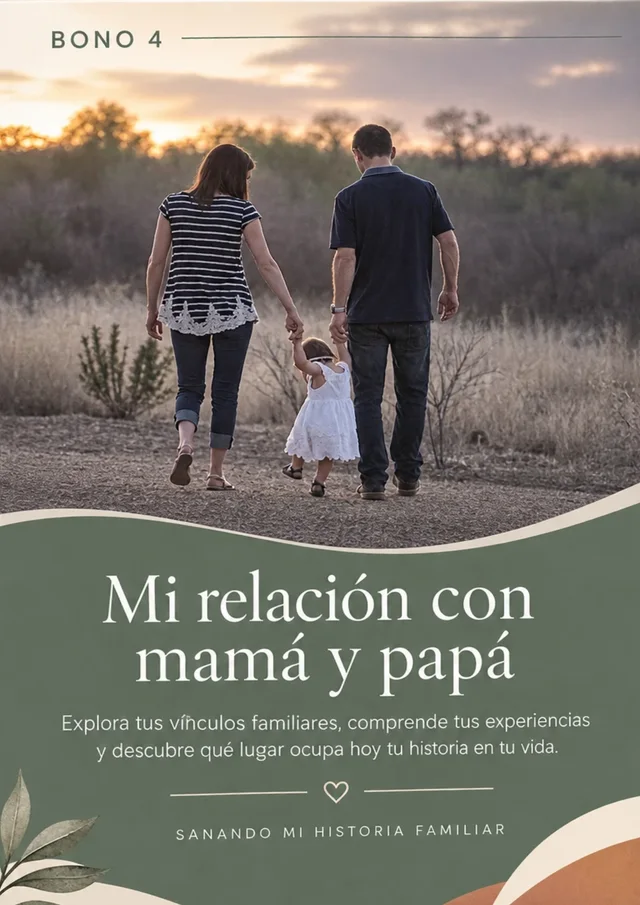
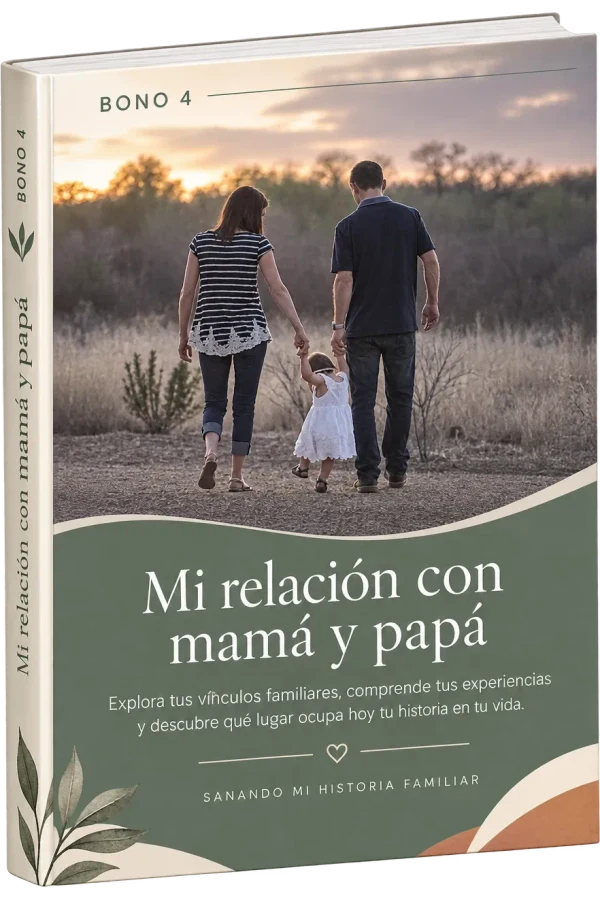
Página de ventas: bonos con mockups de libro 3D

diff --git a/index.html b/index.html
@@ -356,7 +356,7 @@
   /* BONOS EN PDF */
   .bonos-pdf{list-style:none; display:grid; grid-template-columns:1fr 1fr; gap:28px 16px; margin-top:30px;}
   .bonos-pdf li{text-align:left;}
-  .bonos-pdf img{width:100%; aspect-ratio:210/297; object-fit:cover; border-radius:4px; box-shadow:0 14px 30px rgba(73,51,41,.22); margin-bottom:12px; background:#E8DDCF;}
+  .bonos-pdf img{width:100%; aspect-ratio:2/3; object-fit:contain; filter:drop-shadow(0 12px 14px rgba(73,51,41,.22)); margin-bottom:8px;}
   .bonos-pdf .num{display:block; font-size:12px; font-weight:700; letter-spacing:.14em; text-transform:uppercase; color:var(--terracota-texto); margin-bottom:2px;}
   .bonos-pdf h3{font-family:var(--serif); font-size:17px; line-height:1.25; color:var(--verde);}
   @media (min-width:860px){.bonos-pdf{grid-template-columns:repeat(5,1fr); gap:24px 20px;} .bonos-pdf h3{font-size:16px;}}
@@ -518,11 +518,11 @@
       <p class="lead">Cuadernos para descargar, imprimir y escribir a mano, a tu ritmo. Van incluidos en tu compra, sin costo adicional.</p>
     </div>
     <ul class="bonos-pdf">
-      <li><img src="assets/bonos/bono-1.webp" alt="Portada del Bono 1: Cuaderno de autoconocimiento" width="640" height="905" loading="lazy" decoding="async"><span class="num">Bono 1</span><h3>Cuaderno de autoconocimiento</h3></li>
-      <li><img src="assets/bonos/bono-2.webp" alt="Portada del Bono 2: Mi relación con el dinero" width="640" height="905" loading="lazy" decoding="async"><span class="num">Bono 2</span><h3>Mi relación con el dinero</h3></li>
-      <li><img src="assets/bonos/bono-3.webp" alt="Portada del Bono 3: Mi historia en las relaciones de pareja" width="640" height="905" loading="lazy" decoding="async"><span class="num">Bono 3</span><h3>Mi historia en las relaciones de pareja</h3></li>
-      <li><img src="assets/bonos/bono-4.webp" alt="Portada del Bono 4: Mi relación con mamá y papá" width="640" height="905" loading="lazy" decoding="async"><span class="num">Bono 4</span><h3>Mi relación con mamá y papá</h3></li>
-      <li><img src="assets/bonos/bono-5.webp" alt="Portada del Bono 5: Un encuentro con mi infancia" width="640" height="905" loading="lazy" decoding="async"><span class="num">Bono 5</span><h3>Un encuentro con mi infancia</h3></li>
+      <li><img src="assets/bonos/bono-1.webp" alt="Portada del Bono 1: Cuaderno de autoconocimiento" width="600" height="900" loading="lazy" decoding="async"><span class="num">Bono 1</span><h3>Cuaderno de autoconocimiento</h3></li>
+      <li><img src="assets/bonos/bono-2.webp" alt="Portada del Bono 2: Mi relación con el dinero" width="600" height="900" loading="lazy" decoding="async"><span class="num">Bono 2</span><h3>Mi relación con el dinero</h3></li>
+      <li><img src="assets/bonos/bono-3.webp" alt="Portada del Bono 3: Mi historia en las relaciones de pareja" width="600" height="900" loading="lazy" decoding="async"><span class="num">Bono 3</span><h3>Mi historia en las relaciones de pareja</h3></li>
+      <li><img src="assets/bonos/bono-4.webp" alt="Portada del Bono 4: Mi relación con mamá y papá" width="600" height="900" loading="lazy" decoding="async"><span class="num">Bono 4</span><h3>Mi relación con mamá y papá</h3></li>
+      <li><img src="assets/bonos/bono-5.webp" alt="Portada del Bono 5: Un encuentro con mi infancia" width="600" height="900" loading="lazy" decoding="async"><span class="num">Bono 5</span><h3>Un encuentro con mi infancia</h3></li>
     </ul>
   </div>
 </section>
